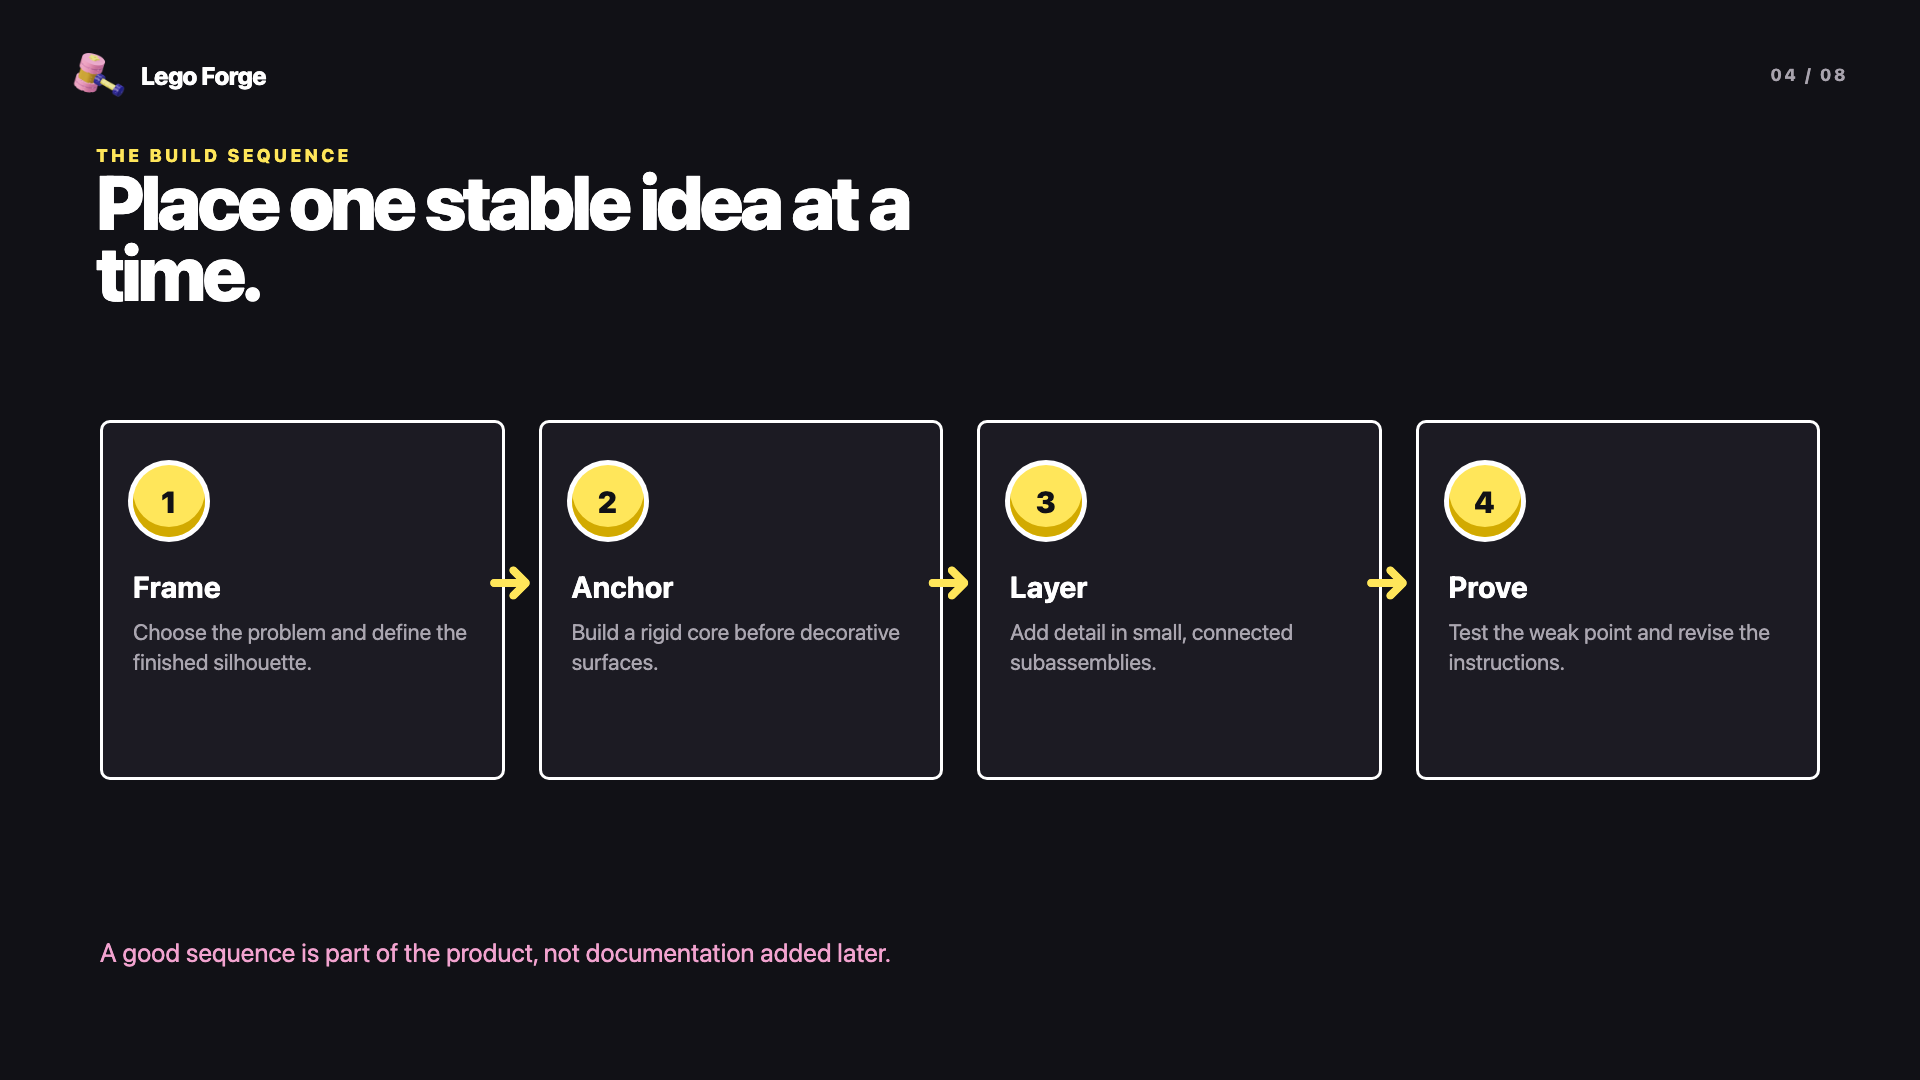
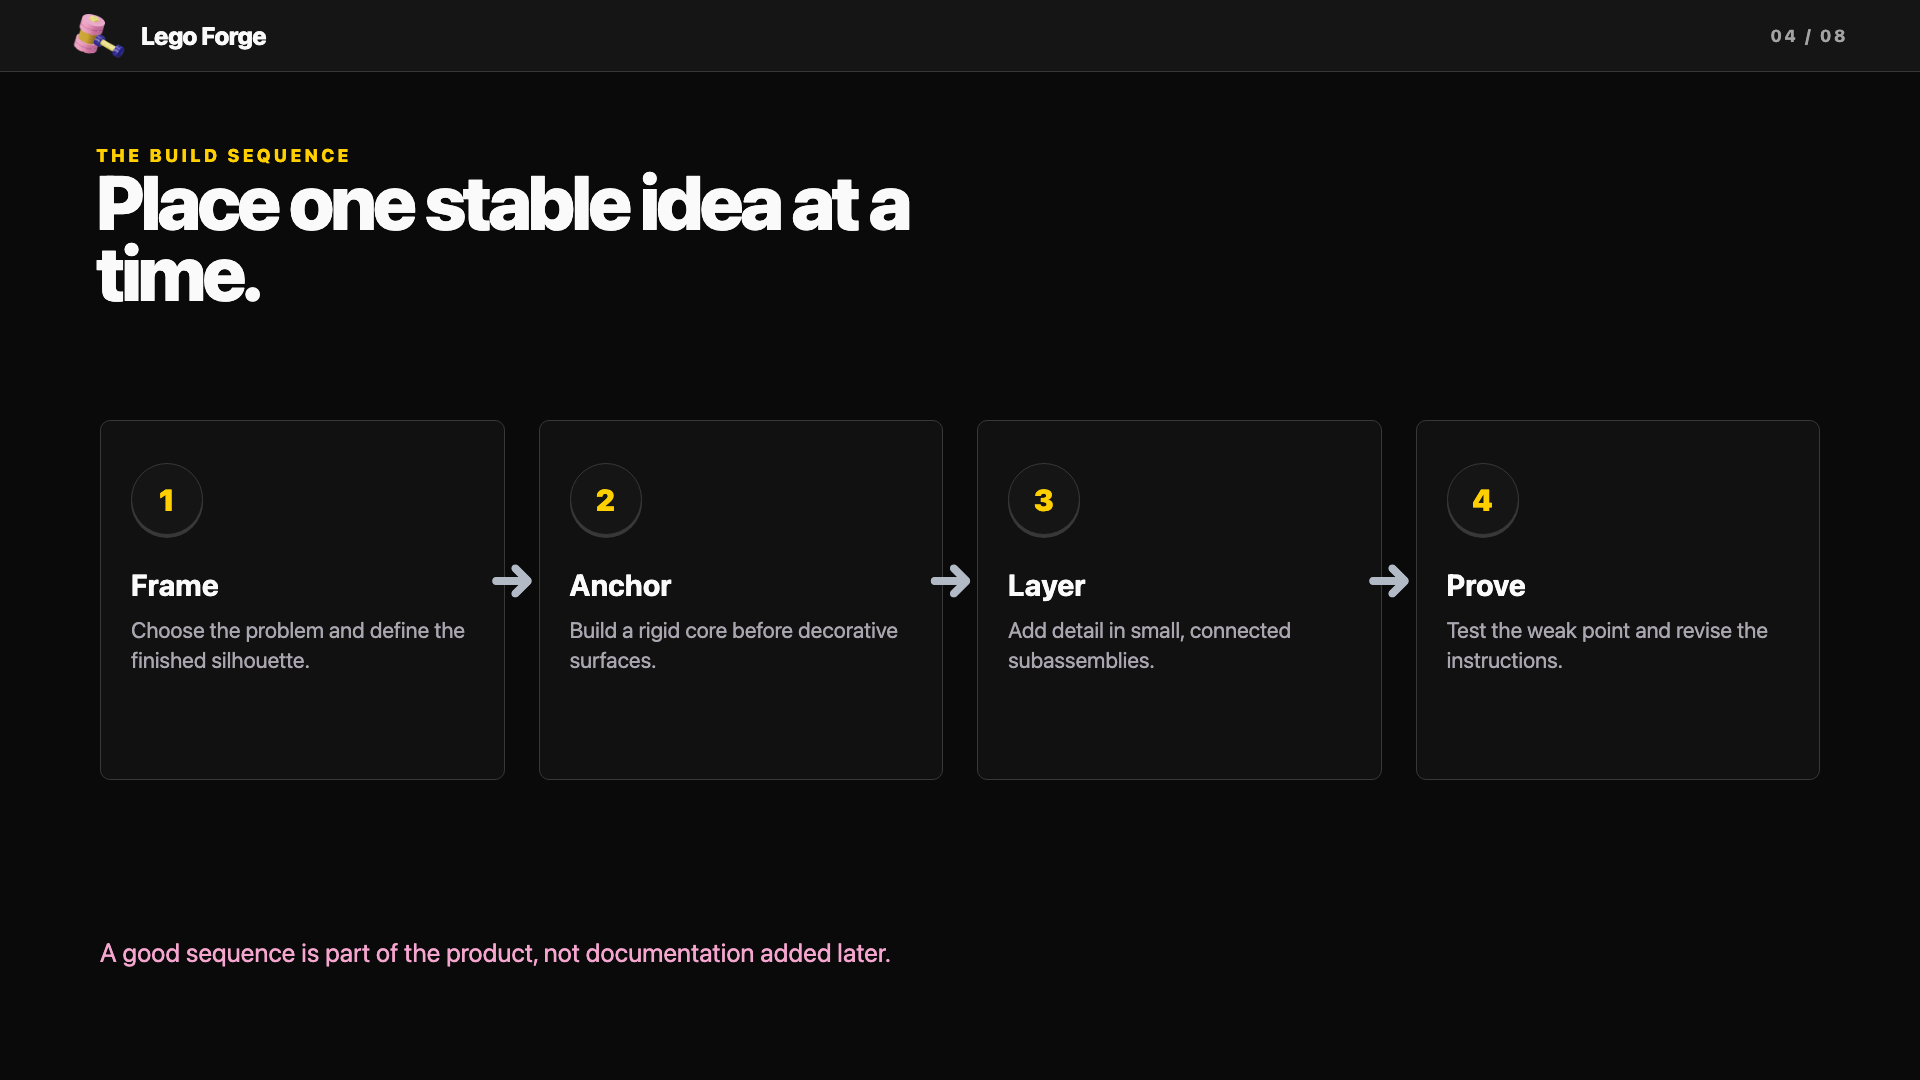
Align Lego Forge template with dark product UI (#2)

diff --git a/templates/lego-forge/template.html b/templates/lego-forge/template.html
@@ -31,6 +31,23 @@
 .s-evidence .intro{position:absolute;left:96px;top:145px}.s-evidence .board{position:absolute;left:96px;right:96px;top:335px;bottom:82px;display:grid;grid-template-columns:1.2fr .8fr;gap:24px}.s-evidence .big{padding:40px}.s-evidence .metric{font-size:168px;line-height:.82;font-weight:900;color:var(--indigo)}.s-evidence .metric-label{margin:30px 0 42px;font-size:30px;font-weight:700}.s-evidence .bar{height:64px;border:3px solid var(--ink);background:#fff}.s-evidence .bar span{display:block;width:78%;height:100%;background:var(--yellow)}.s-evidence .notes{display:grid;grid-template-rows:1fr 1fr;gap:22px}.s-evidence .note-card{padding:34px}.s-evidence .note-card h3{font-size:31px;margin-bottom:15px}.s-evidence .note-card p{font-size:23px;line-height:1.35;color:var(--muted)}
 .s-check .intro{position:absolute;left:96px;top:145px;width:1050px}.s-check .list{position:absolute;left:96px;right:96px;top:365px;bottom:83px;display:grid;grid-template-columns:1fr 1fr;gap:18px}.s-check .item{display:flex;align-items:center;gap:25px;padding:25px 30px;border:3px solid var(--ink);border-radius:8px;background:#fff;font-size:28px;font-weight:700}.s-check .box{width:48px;height:48px;flex:0 0 auto;border:4px solid var(--indigo);background:var(--yellow);position:relative}.s-check .box:after{content:"✓";position:absolute;left:7px;top:-10px;font-size:48px;font-weight:900;color:var(--indigo)}
 .s-close .center{position:absolute;inset:110px;display:flex;flex-direction:column;align-items:center;justify-content:center;text-align:center}.s-close .hammer{width:430px;margin-bottom:28px;filter:drop-shadow(20px 24px 16px rgba(0,0,0,.3))}.s-close .sticker{font-size:116px}.s-close p{margin-top:42px;color:#c6c2ca;font-size:30px}.s-close .spark.one{left:250px;top:310px}.s-close .spark.two{right:255px;bottom:260px}.s-close .spark.three{right:330px;top:170px;width:14px;height:14px}
+
+/* Canonical Lego Forge dark product UI */
+:root{--paper:#0a0a0a;--white:#111;--ink:#fafafa;--muted:#a3a3a3;--pink:#f5a6cf;--hot:#ff5fa8;--yellow:#ffcf00;--indigo:#638bff;--purple:#bb88ff;--mint:#45da8b;--lav:#202020;--line:#383838;--chrome:#151515;--stage:#272d37}
+.slide,.slide.pink,.slide.dark{background:var(--paper);color:var(--ink)}
+.topline{left:0;right:0;top:0;height:72px;padding:0 72px;background:var(--chrome);border-bottom:1px solid var(--line)}
+.page,.dark .page{color:var(--muted)}.kicker{color:var(--yellow)}.body,.body-lg,.muted{color:var(--muted)}
+.sticker{color:var(--ink);-webkit-text-stroke:0;text-shadow:none;font-style:normal;text-transform:none}
+.panel{border:1px solid var(--line);border-radius:5px;background:var(--white);box-shadow:none}.panel-head{border-color:var(--line);background:var(--chrome)}
+.stud-field,.brick{display:none}.tag{border:1px solid var(--line);border-radius:4px;background:var(--white);color:var(--ink)}.tag.yellow{background:var(--yellow);color:#111;border-color:#9c7e00}.tag.pink{background:var(--purple);color:#111;border-color:#714ba3}
+.ui-actions{display:flex;gap:14px;margin-top:42px}.ui-btn{display:inline-flex;align-items:center;gap:12px;padding:15px 22px;border:1px solid var(--edge);border-radius:5px;background:var(--face);color:var(--text);box-shadow:0 4px 0 var(--edge);font-size:20px;font-weight:700}.ui-btn.blue{--face:#265be8;--edge:#16358c;--text:#fff}.ui-btn.violet{--face:#7544e8;--edge:#422486;--text:#fff}.ui-btn.neutral{--face:#111;--edge:#383838;--text:#fafafa}.ui-icon{font-size:22px}.ui-btn.blue .ui-icon{color:#dbe5ff}.ui-btn.violet .ui-icon{color:#eadfff}.ui-btn.neutral .ui-icon{color:var(--purple)}
+.s-cover .copy p{color:var(--muted)}.s-cover .hammer{right:100px;bottom:115px;width:610px;filter:drop-shadow(42px 48px 25px rgba(0,0,0,.55));z-index:2}.s-cover:after{content:"";position:absolute;right:58px;top:130px;width:760px;height:790px;border:1px solid var(--line);border-radius:5px;background:radial-gradient(ellipse at 48% 38%,#454d5a 0%,#1a1e26 100%);z-index:0}.s-cover .sticker{font-size:128px}.s-cover .copy{z-index:2}
+.s-thesis .visual{background:radial-gradient(ellipse at 48% 38%,#454d5a 0%,#1a1e26 100%)}.s-thesis .statement strong{color:var(--purple)}
+.s-four .card:nth-child(2),.s-four .card:nth-child(3){background:var(--white)}.s-four .num{color:var(--purple)}.s-four p,.s-evidence .note-card p{color:var(--muted)}
+.s-steps .step{border:1px solid var(--line);background:var(--white)}.s-steps .coin{background:var(--chrome);color:var(--yellow);box-shadow:0 3px 0 var(--line);border:1px solid var(--line)}.s-steps .step:after{color:#b2bac6}
+.s-compare .column.good{background:var(--chrome);box-shadow:inset 0 -3px var(--purple)}.s-compare li b{color:var(--purple)}
+.s-evidence .metric{color:var(--indigo)}.s-evidence .bar{border:1px solid var(--line);background:#0a0a0a}.s-evidence .bar span{background:var(--indigo)}
+.s-check .item{border:1px solid var(--line);border-radius:5px;background:var(--white)}.s-check .box{border:1px solid #087762;border-radius:4px;background:#20d5ac}.s-check .box:after{color:#082b25}.s-close .spark{background:var(--yellow);box-shadow:0 0 0 5px #574b18}.s-close p{color:var(--muted)}
 </style>
 </head>
 <body>
@@ -38,7 +55,7 @@
   <section class="slide pink s-cover">
     <div class="stud-field"></div><div class="topline"><div class="brand"><img src="assets/forge-hammer.png" alt=""><span>Lego Forge</span></div><span>01 / 08</span></div>
     <div class="brick brick-a"></div><div class="brick brick-b"></div>
-    <div class="copy"><div class="kicker">A little space for big ideas</div><h1 class="display sticker">Build the<br>impossible.</h1><p>A tactile presentation system for ideas that should feel inventive, dimensional, and ready to make.</p></div>
+    <div class="copy"><div class="kicker">A little space for big ideas</div><h1 class="display sticker">Build the<br>impossible.</h1><p>A dark product system for ideas that should feel precise, dimensional, and ready to make.</p><div class="ui-actions"><span class="ui-btn blue"><span class="ui-icon">↻</span>Fit build</span><span class="ui-btn neutral"><span class="ui-icon">◇</span>3D model</span><span class="ui-btn violet"><span class="ui-icon">▱</span>Build steps</span></div></div>
     <img class="hammer" src="assets/forge-hammer.png" alt="Brick-built toy hammer">
   </section>
   <section class="slide s-thesis">

diff --git a/templates/lego-forge/design.md b/templates/lego-forge/design.md
@@ -2,32 +2,35 @@
 
 ## Character
 
-Lego Forge feels like a tidy toy workshop rather than a children's worksheet. It combines real product-render polish with the directness of an instruction manual: square panels, obvious hierarchy, tactile studs, and bright color used with discipline.
+Lego Forge feels like a professional model viewer with the tactility of a toy workshop. The default canvas is dark and restrained: near-black page, charcoal model stages, thin gray borders, compact control bars, colorful icons, and a few raised action buttons.
 
 ## Palette
 
-- Paper `#FFF9FC` — warm white canvas
-- Workshop pink `#F2A3CF` — large fields and friendly emphasis
-- Hot pink `#FF5FA8` — small highlights
-- Spark yellow `#FFE65A` — active states, rules, sparks
-- Handle indigo `#30258E` — outlines and deep contrast
-- Ink `#111116` — body copy and dark stages
+- Paper `#0A0A0A` — page canvas
+- Chrome `#151515` — toolbars and quiet panels
+- Stage `#272D37` — softly lit product-viewer surface
+- Line `#383838` — borders and separators
+- Blue `#638BFF` — primary actions and model icons
+- Purple `#BB88FF` — parts, layers, and secondary accents
+- Yellow `#FFCF00` — selected tabs and box/build accents
+- Mint `#45DA8B` — success and completion
 
-Use one dominant accent per slide. Yellow usually marks the key idea; pink carries atmosphere; indigo supplies structure.
+Color belongs to actions, statuses, icons, and the object being discussed. Large surfaces stay neutral.
 
 ## Type
 
 Outfit is bundled locally. Headlines use 800–900 weight with tight tracking and compact line-height. Body copy stays generous and readable. Small labels are uppercase, tracked, and bold.
 
-Sticker headlines use white fill, an indigo outline, and a yellow outer edge. Reserve them for covers, section breaks, and final statements.
+Display headlines are white, compact, and direct. Avoid outlined sticker lettering inside content decks; that belongs to the consumer logo, not the product interface.
 
 ## Shapes
 
-- Corners: 4–12px; avoid overly soft product-card radii.
-- Rules: 2–4px ink or indigo.
-- Studs: circular highlights with a darker lower edge, arranged on an 84px grid.
-- Bricks: rectangular modules with visible seams and optional top studs.
-- Sparks: small yellow squares or diamonds around moments of emphasis.
+- Corners: 4–5px.
+- Rules: 1px gray separators.
+- Toolbars: 60–72px high, grouped controls, selected-state underline.
+- Neutral buttons: dark face, gray border, subtle 3px lower edge.
+- Primary buttons: blue, violet, or mint face with a darker 4px bottom edge.
+- Icons: single-color line icons, usually blue, purple, yellow, or muted gray.
 
 ## Layouts
 
@@ -35,7 +38,7 @@ The template includes eight reusable patterns: brand cover, framing statement, f
 
 ## Imagery
 
-Use isolated product renders on clean paper or near-black backgrounds. Give objects a soft ground shadow. Avoid generic AI illustration and unrelated stock photography. The included hammer and crest are approved Lego Forge assets.
+Use isolated product renders on the canonical charcoal radial stage (`#454D5A` center to `#1A1E26` edge). Give objects a long, soft ground shadow. Avoid generic AI illustration and unrelated stock photography. The included hammer and crest are approved Lego Forge assets.
 
 ## Motion
 

diff --git a/README.md b/README.md
@@ -114,7 +114,7 @@ All 36 templates. Three slides per template (cover · mid-deck · later) to give
   <img src="./screenshots/lego-forge-8.png" width="32.5%" alt="Lego Forge — slide 8" />
 </p>
 
-> A playful brick-built workshop: pink stud fields, ink-blue outlines, yellow sparks, product renders, and chunky toy typography.
+> Lego Forge's dark product UI: near-black canvas, charcoal render stages, precise control bars, colorful icons, and tactile raised actions.
 
 ### [Neo-Grid Bold](./templates/neo-grid-bold/)
 
